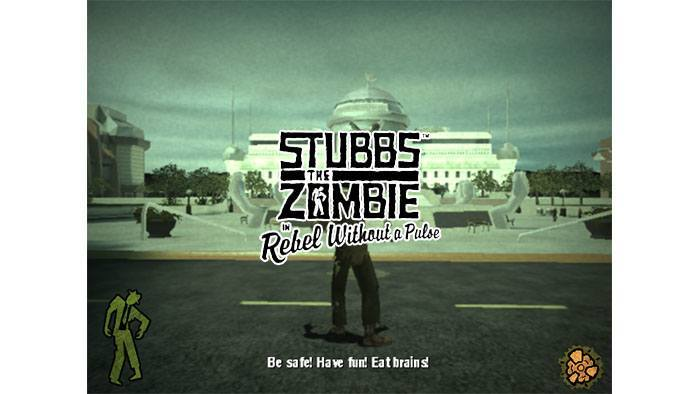
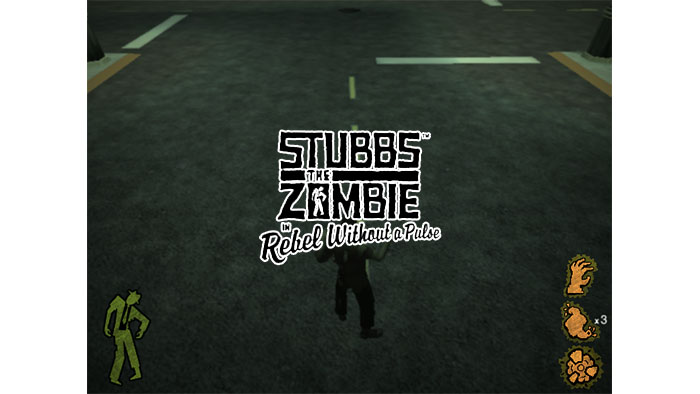
-

diff --git a/wfp.html b/wfp.html
@@ -1454,6 +1454,10 @@
 						<table border="0" cellspacing="0" cellpadding="0" style="width: 50%;">
 						<tr><td>
 							<tbody id="update">
+								<a href="#nfsc" class="list-group-item" onclick="LocationManager($(this).attr('href'));">
+									<span class="label label-success">16.08.2016</span> <span class="label label-info" title="Improvements or bugfixes">IMP</span> <span style="color: #428bca;margin-left:10px;">NFS Carbon, NFSMW, SH2, Stubbs, SCPT, GTA - bugfixes</span>
+								</a>
+							
 								<a href="#gta3" class="list-group-item" onclick="LocationManager($(this).attr('href'));">
 									<span class="label label-success">08.05.2016</span> <span class="label label-info" title="Improvements or bugfixes">IMP</span> <span style="color: #428bca;margin-left:10px;">ASI Loader update for all fixes, small bugfix for GTA3</span>
 								</a>
@@ -1464,10 +1468,6 @@
 								
 								<a href="#coldfear" class="list-group-item" onclick="LocationManager($(this).attr('href'));">
 									<span class="label label-success">21.04.2016</span> <span class="label label-info" title="New release">REL</span> <span style="color: #428bca;margin-left:10px;">Cold Fear Widescreen Fix</span>
-								</a>
-								
-								<a href="#sc" class="list-group-item" onclick="LocationManager($(this).attr('href'));">
-									<span class="label label-success">19.04.2016</span> <span class="label label-info" title="Improvements or bugfixes">IMP</span> <span style="color: #428bca;margin-left:10px;">SC1/SCPT/SCCT Widescreen Fix</span>
 								</a>
 							</tbody>
 						</td></tr>

diff --git a/screens/stubbsthezombie.html b/screens/stubbsthezombie.html
@@ -1,10 +1,10 @@
 <script type="text/javascript">
 	var id = "stubbsthezombie";
-	var screen1 = "[url=http://i.imgur.com/2pHOXG5.jpg][img]http://i.imgur.com/VLyl5AV.jpg[/img][/url]";
-	var screen2 = "[url=http://i.imgur.com/qiaMQBA.jpg][img]http://i.imgur.com/MRfpjfm.jpg[/img][/url]";
-	var screen3 = "[url=http://i.imgur.com/m38RFSn.jpg][img]http://i.imgur.com/N6bktK5.jpg[/img][/url]";
-	var screen4 = "[url=http://i.imgur.com/eZnTkF7.jpg][img]http://i.imgur.com/SYSV4Di.jpg[/img][/url]";
-	var youtube = "";
+	var screen1 = "[url=http://i.imgur.com/iAWnohi.jpg][img]http://i.imgur.com/iAWnohim.jpg[/img][/url]";
+	var screen2 = "[url=http://i.imgur.com/HHWee6o.jpg][img]http://i.imgur.com/HHWee6om.jpg[/img][/url]";
+	var screen3 = "[url=http://i.imgur.com/WYUoM4B.jpg][img]http://i.imgur.com/WYUoM4Bm.jpg[/img][/url]";
+	var screen4 = "[url=http://i.imgur.com/BbpBKjD.jpg][img]http://i.imgur.com/BbpBKjDm.jpg[/img][/url]";
+	var youtube = "https://www.youtube.com/watch?v=dNFRNfmR8M0&hd=1";
 	var github = "https://github.com/ThirteenAG/Widescreen_Fixes_Pack/releases/tag/"+id;
 	
 	var re = /\[url=([^\s\]]+)\s*\]\[img\](.*(?=\[\/img\]))\[\/img\]\[\/url\]/
